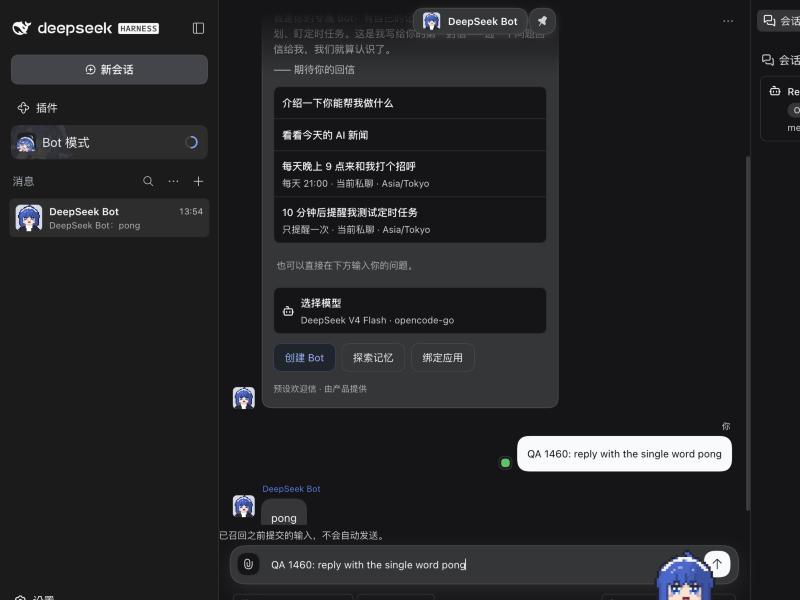
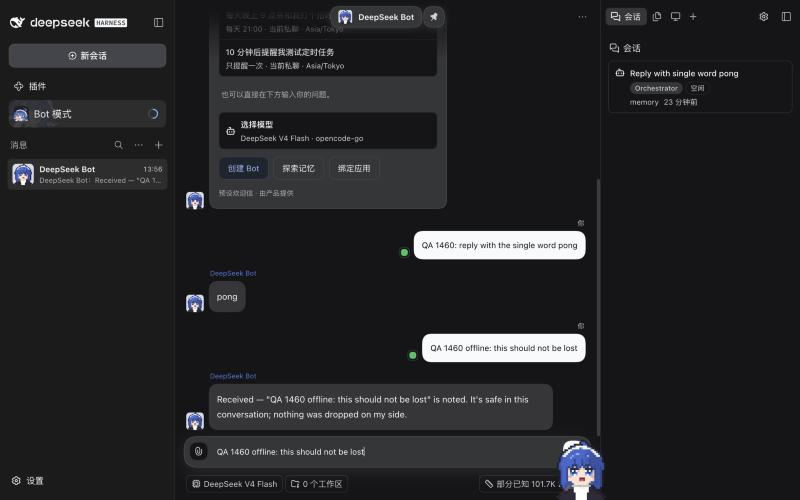
Show a recall note only when something was left out
A plain recall no longer prints a line above the composer. The note
remains for omitted attachments or reply target and for references that
are no longer valid.

Issue: #1460
Agent-Task: claude/local/cse_01NchfJCg9z2kooocJU6x9Fr

diff --git a/packages/client/src/client/locale.ts b/packages/client/src/client/locale.ts
@@ -1133,9 +1133,8 @@ export const zh = {
   'message.failedRestore': '将失败消息放回输入框修改后重发',
   'message.unconfirmed': '结果未确认',
   'message.unconfirmedRestore': '向 Host 核对这条消息是否已送达',
-  'composer.recalled': '已召回之前提交的输入，不会自动发送。',
-  'composer.recallOmitted': '未带回原来的附件和回复对象。',
-  'composer.recallDropped': '部分 @ 或 # 引用已失效，已改为普通文字。',
+  'composer.recallOmitted': '召回的输入未带回原来的附件和回复对象。',
+  'composer.recallDropped': '召回的输入里部分 @ 或 # 引用已失效，已改为普通文字。',
   'composer.submissionStorageError':
     '这次提交的输入未能保存到本设备，刷新后将无法找回；请先复制备份。',
   'composer.submissionChecking': '正在向 Host 核对这条消息…',
@@ -4199,9 +4198,10 @@ My relationship with you, established lore and topics to avoid: [fill in].
   'message.failedRestore': 'Restore failed message to composer to edit and resend',
   'message.unconfirmed': 'Not confirmed',
   'message.unconfirmedRestore': 'Ask the Host whether this message was delivered',
-  'composer.recalled': 'Recalled an earlier submission; it is not sent automatically.',
-  'composer.recallOmitted': ' Its attachments and reply target were not brought back.',
-  'composer.recallDropped': ' Some @ or # references are no longer valid and became plain text.',
+  'composer.recallOmitted':
+    ' The recalled input does not bring back its attachments or reply target.',
+  'composer.recallDropped':
+    ' Some @ or # references in the recalled input are no longer valid and became plain text.',
   'composer.submissionStorageError':
     'This submission could not be saved on this device and cannot be recovered after a reload; copy it first.',
   'composer.submissionChecking': 'Asking the Host about this message…',

diff --git a/packages/client/src/client/bot-main.tsx b/packages/client/src/client/bot-main.tsx
@@ -775,13 +775,9 @@ function ConversationView({
     const dropped =
       mentions.length !== entry.mentions.length || channelRefs.length !== entry.channelRefs.length;
     const omitted = entry.replyTo !== undefined || (entry.attachments?.length ?? 0) > 0;
-    setRecallNotice(
-      [
-        t('composer.recalled'),
-        omitted ? t('composer.recallOmitted') : '',
-        dropped ? t('composer.recallDropped') : '',
-      ].join(''),
-    );
+    const notice =
+      (omitted ? t('composer.recallOmitted') : '') + (dropped ? t('composer.recallDropped') : '');
+    setRecallNotice(notice === '' ? undefined : notice.trim());
     return true;
   };
   const followingLatest = useRef(true);

diff --git a/docs/assets/pr/1460-input-recall/README.md b/docs/assets/pr/1460-input-recall/README.md
@@ -4,7 +4,7 @@ Captured through the real UI of isolated Hosts on DSH **0.2.0-rc.2**, macOS, Chi
 
 ## Screens
 
-- [before-recall-dark.jpg](before-recall-dark.jpg) / [after-recall-dark.jpg](after-recall-dark.jpg): Up in the empty composer after a sent message. Before, nothing happens. After, the submitted text returns with the note that it is not sent automatically.
+- [before-recall-dark.jpg](before-recall-dark.jpg) / [after-recall-dark.jpg](after-recall-dark.jpg): Up in the empty composer after a sent message. Before, nothing happens. After, the submitted text returns to the composer; nothing is sent and no extra text is shown.
 - [before-offline-dark.jpg](before-offline-dark.jpg) / [after-offline-dark.jpg](after-offline-dark.jpg): Enter while the Host is stopped. Both clear the composer and keep a bubble; before labels it **发送失败**, after labels it **结果未确认** because no answer came back. DSH's own reconnect toasts partly cover the bubble in both.
 - [before-reopen-dark.jpg](before-reopen-dark.jpg) / [after-reopen-dark.jpg](after-reopen-dark.jpg): the Host restarted and the page reopened. Before, the input is gone. After, the entry is still there; the Host was asked for its original ID, did not have it, and the bubble became **发送失败** with the restore action. Nothing was resent.
 
